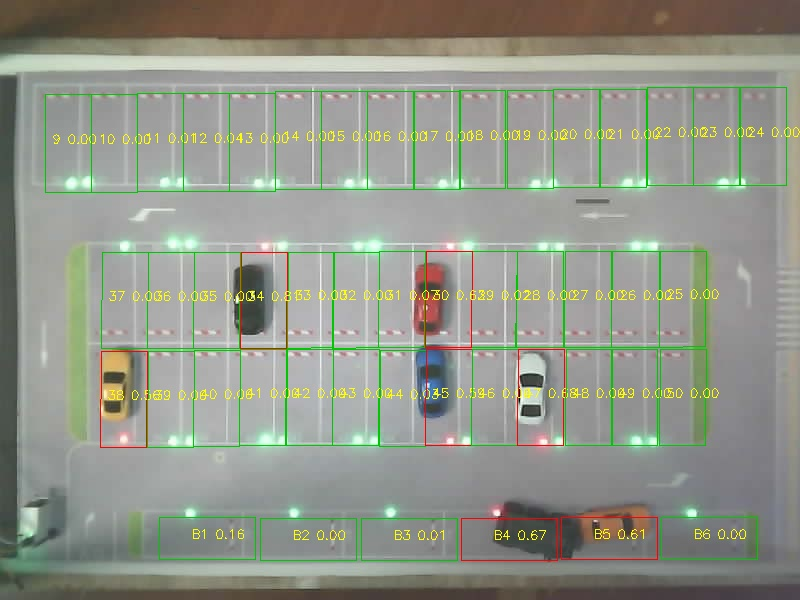
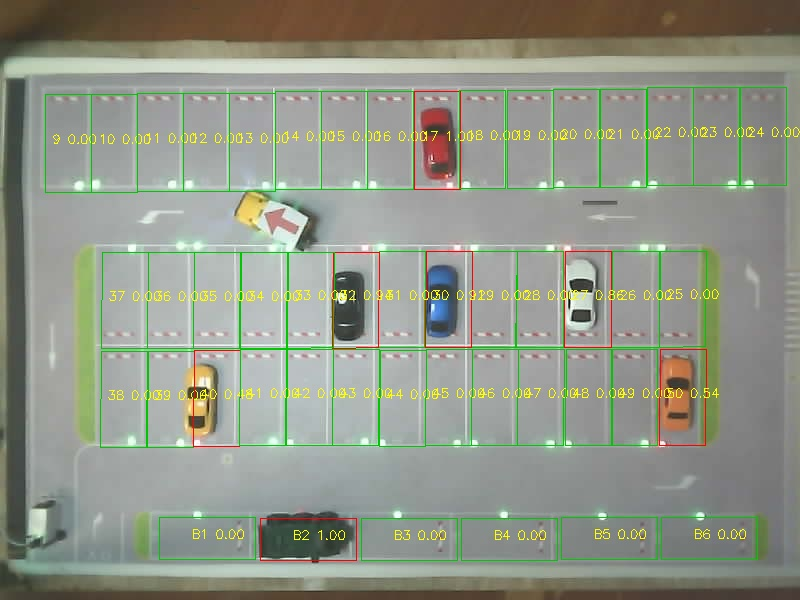
bench: score what production decided, not a re-detection on a fresh grab
Two rounds measured 8/8 misses while the strip showed red LEDs, and the cause was the
benchmark, twice over:

  the grab returned a stale frame   the relay answers with the frame it already has, so a
                                    single grab can be a picture from minutes ago. Drain a
                                    few and keep the last.
  it re-detected at all             that measures this script's own frame, not the system.
                                    --from-state now reads parking_state.json, which is what
                                    production actually decided.

Those two bugs hid a real failure mode for a while: the empty-bay reference had been
overwritten with an occupied frame (someone pressed R with cars on the table), so every bay
read zero change and production itself was reporting all-EMPTY. Recorded as r2 after the
reference was re-captured with the bays empty.

r1: 6 TP, 1 FN (37), 1 FP (27), accuracy 0.958
r2: 8 TP, 0 FN, 0 FP, accuracy 1.000

diff --git a/tools/bench/occupancy_bench.py b/tools/bench/occupancy_bench.py
@@ -44,7 +44,12 @@ OUT_DIR = os.path.join(HERE, "out")
 def main() -> int:
     ap = argparse.ArgumentParser()
     ap.add_argument("--stream", default="http://127.0.0.1:8021/stream")
-    ap.add_argument("--truth", default="", help="CSV of bays that have a car in them")
+    ap.add_argument("--truth", default="", help="CSV file, or comma separated bay ids")
+    ap.add_argument("--round", default="", help="label for this run, e.g. r1; appends a summary row")
+    ap.add_argument("--quiet", action="store_true", help="do not print the per-bay ratios")
+    ap.add_argument("--from-state", action="store_true",
+                    help="score parking_state.json (what production decided) instead of "
+                         "re-detecting on a freshly grabbed frame")
     ap.add_argument("--threshold", type=float, default=occupancy.OccupancyParams().changed_ratio_threshold,
                     help="default: the production value, so this measures what production does")
     args = ap.parse_args()
@@ -54,20 +59,39 @@ def main() -> int:
     if reference is None:
         print("no reference at %s - press r in the vision window with every bay empty" % REFERENCE)
         return 1
-    frame = grab(args.stream)
+    # The relay answers immediately with the frame it already has, so a single grab can
+    # return a stale picture - two rounds in a row measured identically (frame diff 0.0)
+    # because of it. Drain a few and keep the last: the detector must see what is on the
+    # table now, not what was there when the previous round ran.
+    for _ in range(3):
+        frame = grab(args.stream)
     if frame.shape[:2] != reference.shape[:2]:
         print("reference is %s but the camera gives %s - they must match"
               % (reference.shape[:2], frame.shape[:2]))
         return 1
 
-    params = occupancy.OccupancyParams(changed_ratio_threshold=args.threshold)
-    detector = occupancy.OccupancyDetector(params)
-    spots = load_spots(os.path.join(ROOT, "vision", "config", "parking_spots.json"),
-                       reference.shape[:2])
-    detector.set_reference(reference, spots)
-    results = detector.evaluate(frame, spots)
+    if args.from_state:
+        # What production actually decided. Re-detecting here would measure this script's
+        # own frame grab rather than the system, and the grab turned out to be able to return
+        # a stale picture - two rounds measured identically while the strip showed red LEDs.
+        doc = json.load(open(os.path.join(ROOT, "vision", "out", "parking_state.json"),
+                             encoding="utf-8"))
+        bays = {str(k): v for k, v in (doc.get("spots") or {}).items()}
+        ratios = {k: float(v.get("changed_ratio") or 0.0) for k, v in bays.items()}
+        states = {k: v.get("state") or "UNKNOWN" for k, v in bays.items()}
+        frame = reference if False else None
+        results = None
+    else:
+        params = occupancy.OccupancyParams(changed_ratio_threshold=args.threshold)
+        detector = occupancy.OccupancyDetector(params)
+        spots = load_spots(os.path.join(ROOT, "vision", "config", "parking_spots.json"),
+                           reference.shape[:2])
+        detector.set_reference(reference, spots)
+        results = detector.evaluate(frame, spots)
     # evaluate() returns {spot_id: SpotResult}
-    if isinstance(results, dict):
+    if args.from_state:
+        pass
+    elif isinstance(results, dict):
         ratios = {str(k): float(v.changed_ratio) for k, v in results.items()}
         states = {str(k): v.state for k, v in results.items()}
     else:
@@ -91,16 +115,22 @@ def main() -> int:
         cv2.imwrite(out, view)
         flagged = sorted((sid, r) for sid, r in ratios.items() if r >= args.threshold)
         print("  threshold %.2f  ->  %d bays over" % (args.threshold, len(flagged)))
-        print("  %s" % ", ".join("%s %.2f" % (s, r) for s, r in flagged))
+        if not args.quiet:
+            print("  %s" % ", ".join("%s %.2f" % (s, r) for s, r in flagged))
         print("  annotated image: %s" % out)
         print("  give the verdict as truth.csv (bays that HAVE a car), then re-run with --truth")
         return 0
 
     truth = set()
-    with open(args.truth, encoding="utf-8") as fh:
-        for row in csv.reader(fh):
-            if row and row[0].strip():
-                truth.add(row[0].strip())
+    if os.path.exists(args.truth):
+        with open(args.truth, encoding="utf-8") as fh:
+            for row in csv.reader(fh):
+                if row and row[0].strip():
+                    truth.add(row[0].strip())
+    else:
+        for part in args.truth.replace("，", ",").split(","):
+            if part.strip():
+                truth.add(part.strip())
     bays = [str(s["id"]) for s in map_doc.get("spots") or []]
     m = {"TP": 0, "FN": 0, "FP": 0, "TN": 0, "UNKNOWN": 0}
     misses, false_pos = [], []
@@ -130,6 +160,19 @@ def main() -> int:
     print("  false occupied  %d %s" % (m["FP"], false_pos))
     print("  false empty     %d %s" % (m["FN"], misses))
     print("  unknown rate    %.3f" % (m["UNKNOWN"] / 48.0))
+
+    summary = os.path.join(OUT_DIR, "occupancy_rounds.csv")
+    new = not os.path.exists(summary)
+    with open(summary, "a", newline="", encoding="utf-8") as fh:
+        w = csv.writer(fh)
+        if new:
+            w.writerow(["round", "threshold", "truth_occupied", "tp", "fn", "fp", "tn",
+                        "unknown", "accuracy", "false_occupied", "false_empty", "missed"])
+        w.writerow([args.round or "-", args.threshold, len(truth), m["TP"], m["FN"], m["FP"],
+                    m["TN"], m["UNKNOWN"],
+                    round((m["TP"] + m["TN"]) / max(decided, 1), 4), m["FP"], m["FN"],
+                    " ".join(misses)])
+    print("  appended to %s" % summary)
     return 0
 
 
